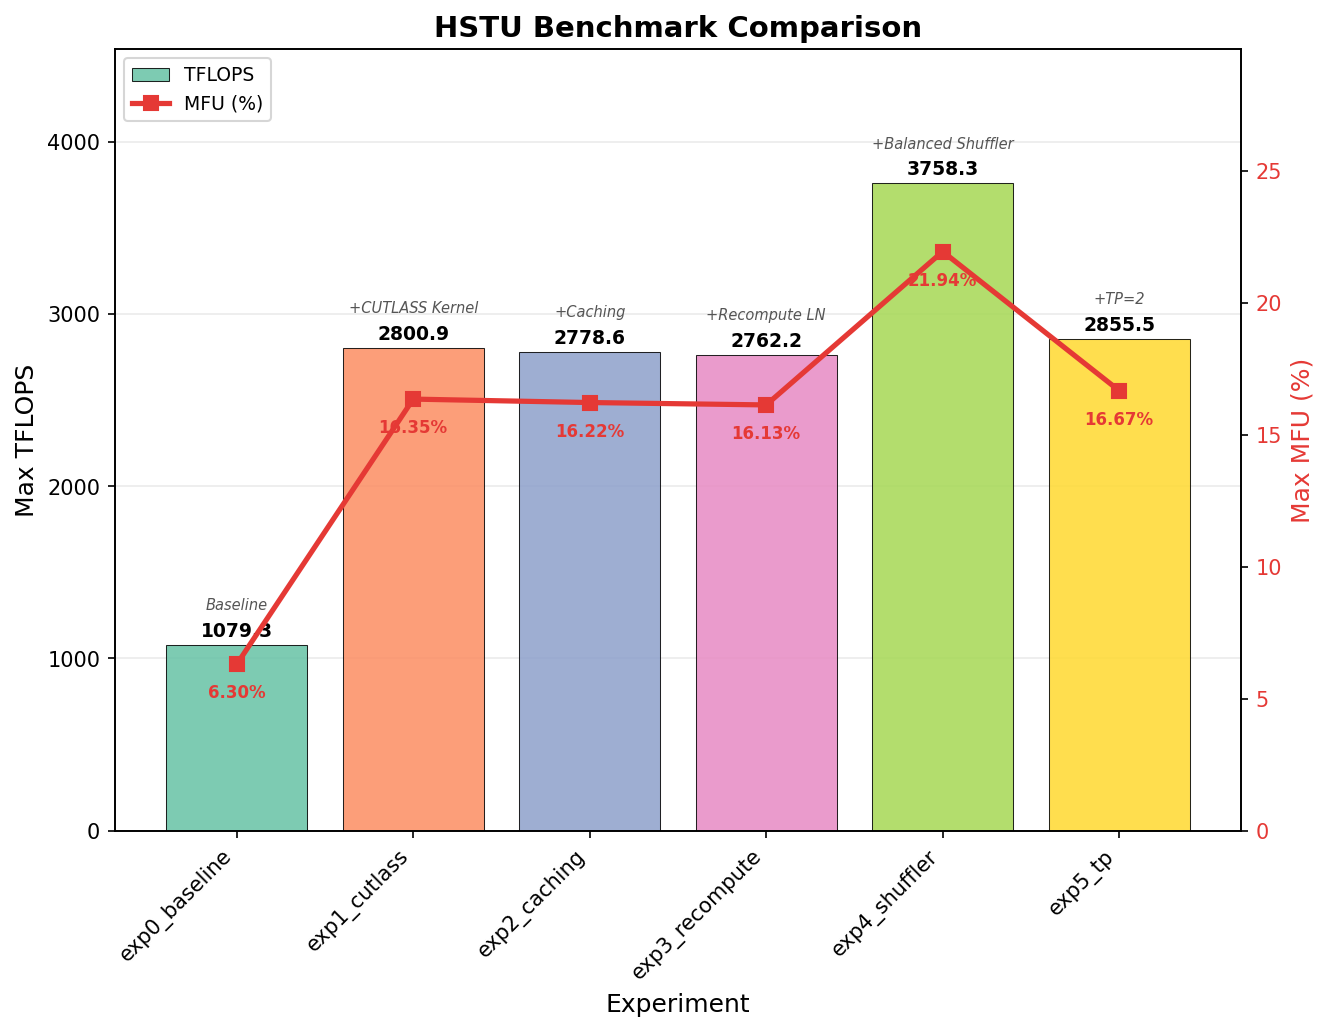
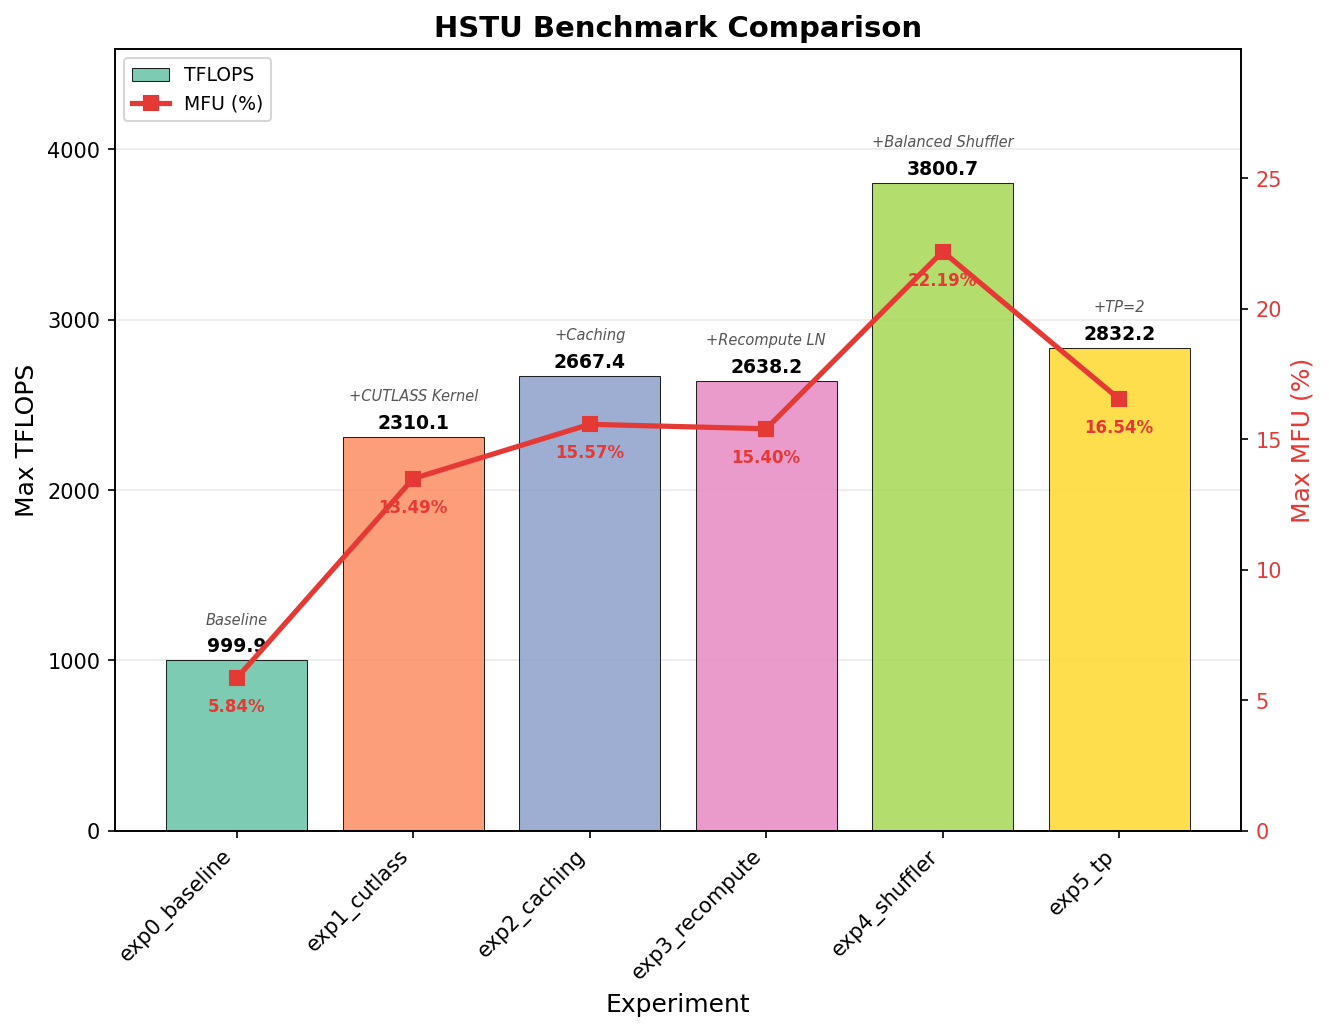
docs(benchmark): update E2E and CUTLASS MFU results
Update benchmark results from latest EOS run (2x H100 SXM5, 16 GPUs,
devel_latest image). Best MFU: 22.19% with balanced shuffler (3.80x
over baseline). Also update CUTLASS attention MFU heatmap from cw-dfw.

diff --git a/examples/hstu/training/benchmark/E2E_BENCHMARK.md b/examples/hstu/training/benchmark/E2E_BENCHMARK.md
@@ -73,24 +73,24 @@ Synthetic data with Zipf-distributed sequence lengths simulates the heavy-tailed
 
 | Exp | Name | TFLOPS | MFU (%) | Speedup vs Baseline | Notes |
 |-----|------|--------|---------|---------------------|-------|
-| 0 | Baseline | 1077 | 6.29 | 1.00× | Triton attention, no cache, DP-only |
-| 1 | +CUTLASS | 2809 | 16.40 | 2.61× | Attention kernel swap alone gives 2.6× |
-| 2 | +Caching | 2769 | 16.16 | 2.57× | GPU embedding cache amortizes over time |
-| 3 | +Recompute | 2738 | 15.99 | 2.54× | Saves memory with negligible throughput cost |
-| 4 | **+Shuffler** | **3723** | **21.73** | **3.46×** | Largest single-step gain — eliminates attention skew |
-| 5 | +TP=2 | 2851 | 16.65 | 2.65× | Trades communication for per-GPU memory savings |
+| 0 | Baseline | 1000 | 5.84 | 1.00× | Triton attention, no cache, DP-only |
+| 1 | +CUTLASS | 2310 | 13.49 | 2.31× | Attention kernel swap alone gives 2.3× |
+| 2 | +Caching | 2667 | 15.57 | 2.67× | GPU embedding cache amortizes over time |
+| 3 | +Recompute | 2638 | 15.40 | 2.64× | Saves memory with negligible throughput cost |
+| 4 | **+Shuffler** | **3801** | **22.19** | **3.80×** | Largest single-step gain — eliminates attention skew |
+| 5 | +TP=2 | 2832 | 16.54 | 2.83× | Trades communication for per-GPU memory savings |
 
 <img src="figs/comparison.png" width="100%" />
 
 ### Key Takeaways
 
-1. **CUTLASS attention is the foundation**: Replacing the Triton kernel with CUTLASS yields a 2.6× speedup — by far the most impactful single optimization, reflecting the attention-bound nature of HSTU.
+1. **CUTLASS attention is the foundation**: Replacing the Triton kernel with CUTLASS yields a 2.3× speedup — by far the most impactful single optimization, reflecting the attention-bound nature of HSTU.
 
-2. **Workload-balanced shuffler delivers the highest MFU (21.7%)**: Zipf-distributed sequence lengths cause severe load imbalance with O(n²) attention. Redistributing sequences to equalize per-GPU FLOPs eliminates idle time and adds another 1.36× on top of CUTLASS+Caching+Recompute.
+2. **Workload-balanced shuffler delivers the highest MFU (22.2%)**: Zipf-distributed sequence lengths cause severe load imbalance with O(n²) attention. Redistributing sequences to equalize per-GPU FLOPs eliminates idle time and adds another 1.44× on top of CUTLASS+Caching+Recompute.
 
-3. **Caching and recompute are memory-oriented**: DynamicEmb caching and selective recompute do not improve raw throughput (MFU drops slightly from 16.40% to 15.99%), but they significantly reduce memory pressure — enabling larger models or longer sequences.
+3. **Caching and recompute are memory-oriented**: DynamicEmb caching improves throughput from 13.49% to 15.57% MFU by reducing embedding lookup latency. Selective recompute saves memory with negligible throughput cost (15.40% MFU).
 
-4. **Tensor Parallel introduces communication overhead**: TP=2 reduces per-GPU weight memory by half but adds AllReduce synchronization after each HSTU layer. The net effect is 16.65% MFU — better than baseline but lower than shuffler alone, suggesting TP is most beneficial when model size exceeds single-GPU memory capacity.
+4. **Tensor Parallel introduces communication overhead**: TP=2 reduces per-GPU weight memory by half but adds AllReduce synchronization after each HSTU layer. The net effect is 16.54% MFU — better than baseline but lower than shuffler alone, suggesting TP is most beneficial when model size exceeds single-GPU memory capacity.
 
 ---
 

diff --git a/examples/hstu/training/benchmark/README.md b/examples/hstu/training/benchmark/README.md
@@ -12,14 +12,14 @@ Progressive benchmark measuring end-to-end MFU as optimizations are incrementall
 
 | Exp | Name | MFU (%) | Speedup |
 |-----|------|---------|---------|
-| 0 | Baseline (Triton, DP-only) | 6.29 | 1.00× |
-| 1 | +CUTLASS Attention | 16.40 | 2.61× |
-| 2 | +DynamicEmb Caching | 16.16 | 2.57× |
-| 3 | +Selective Recompute | 15.99 | 2.54× |
-| 4 | **+Workload-Balanced Shuffler** | **21.73** | **3.46×** |
-| 5 | +Tensor Parallel (TP=2) | 16.65 | 2.65× |
+| 0 | Baseline (Triton, DP-only) | 5.84 | 1.00× |
+| 1 | +CUTLASS Attention | 13.49 | 2.31× |
+| 2 | +DynamicEmb Caching | 15.57 | 2.67× |
+| 3 | +Selective Recompute | 15.40 | 2.64× |
+| 4 | **+Workload-Balanced Shuffler** | **22.19** | **3.80×** |
+| 5 | +Tensor Parallel (TP=2) | 16.54 | 2.83× |
 
-CUTLASS attention (2.6×) and workload-balanced shuffler (3.5×) are the two largest contributors. See the [full benchmark document](./E2E_BENCHMARK.md) for analysis.
+CUTLASS attention (2.3×) and workload-balanced shuffler (3.8×) are the two largest contributors. See the [full benchmark document](./E2E_BENCHMARK.md) for analysis.
 
 ### HSTU CUTLASS Attention MFU Heatmap
 
@@ -35,7 +35,7 @@ python ./training/benchmark/scripts/benchmark_hstu_attn_mfu.py \
 
 #### Results (single H100-SXM5-80GB)
 
-<img src="figs/hstu_attn_mfu.png" width="100%" />
+<p align="center"><img src="figs/hstu_attn_mfu.png" width="60%" /></p>
 
 The CUTLASS attention kernel achieves peak MFU at large batch × seqlen products, where the GPU compute units are fully saturated. OOM (grey cells) occurs at the largest configurations.
 
